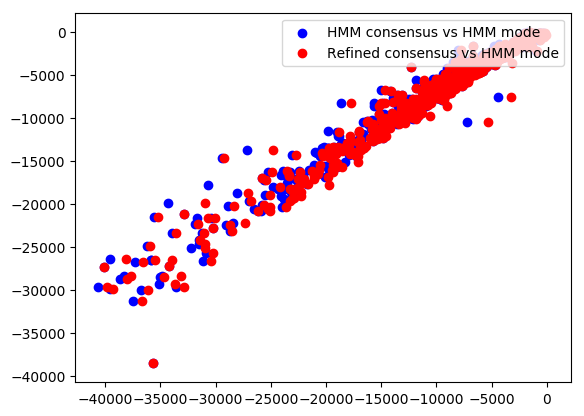
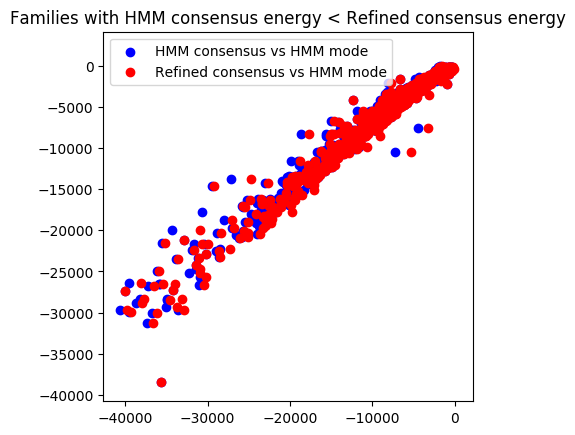
minor changes

diff --git a/analyse_plot_stats.py b/analyse_plot_stats.py
@@ -216,8 +216,9 @@ def main():
         print(len(hmm_cse))
         plt.scatter(hmm_cse, hmm_modes, color = 'blue', label = 'HMM consensus vs HMM mode')
         plt.scatter(refined_cse, hmm_modes, color = 'red', label = 'Refined consensus vs HMM mode')
-        plt.legend(loc = 'upper right')
-        #plt.axis('square')
+        plt.legend(loc = 'upper left')
+        plt.title('Families with HMM consensus energy < Refined consensus energy')
+        plt.axis('square')
         plt.savefig('cool_plots/cs_vs_hmm_mode(hmm cs < refined cs).png', bbox_inches = 'tight')
         plt.clf()
         plt.cla()
